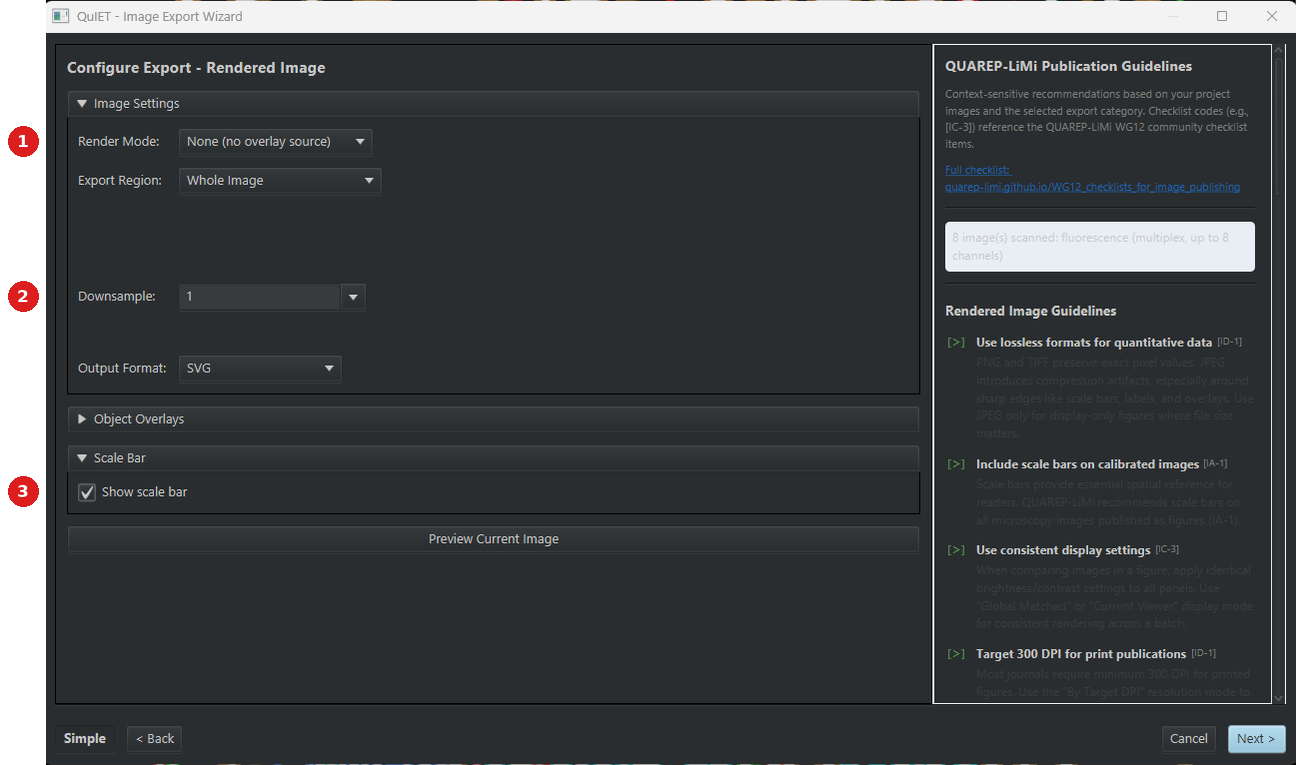
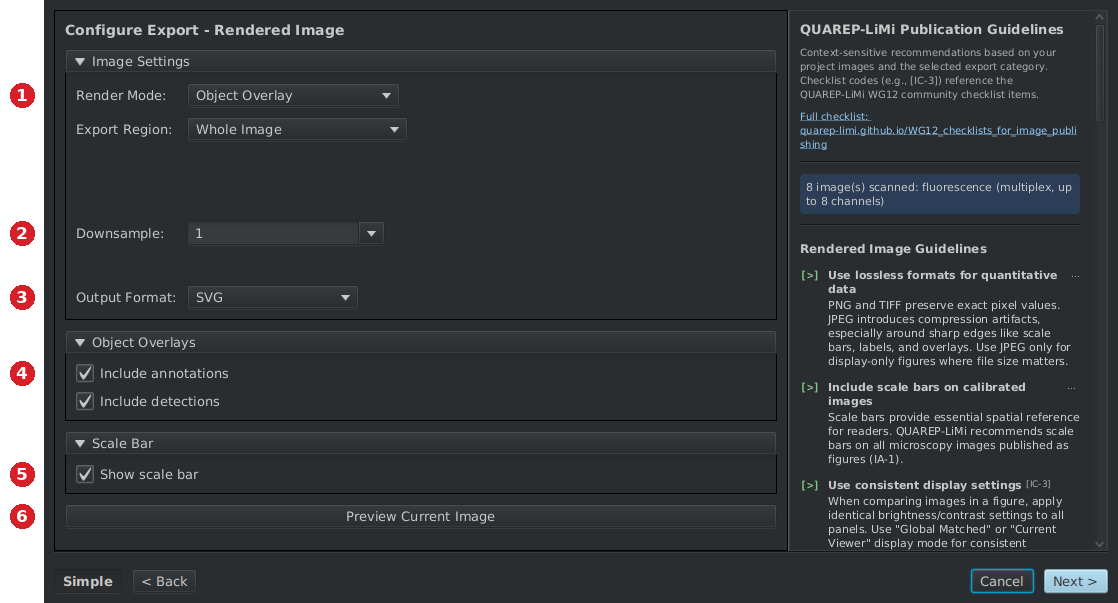
QuIET guide: exercise re-walked in QuPath, new screenshots, corrected steps
Walked the whole exercise in QuPath 0.7 with QuIET 1.2.14 through the
MCP harness and rewrote steps 3 to 5 from what the dialogs do:
- ground-truth points are annotations and Include annotations starts
  unticked; Object Overlay switches the format to SVG by itself
- Save Script is only shown in Advanced mode
- the generated script exports every project image, as PNG
- montage captions are unreadable at the default 14 px
Sub-steps 3.1 to 5.4, settings tables matching numbered screenshots,
preview, Publication Advice, script editor and montage results.
Wizard screens no longer called Step N, so step N always means the guide.

Claude-Session: https://claude.ai/code/session_01KwiACUr5MacuDvqp74c96o

diff --git a/docs/01-quiet-image-export.md b/docs/01-quiet-image-export.md
@@ -12,7 +12,7 @@ title: QuIET - QuPath Image Export Toolkit
 | | |
 |---|---|
 | **Repository** | [uw-loci/qupath-extension-image-export-toolkit](https://github.com/uw-loci/qupath-extension-image-export-toolkit) |
-| **Extension version** | 1.2.12 |
+| **Extension version** | 1.2.14 |
 | **License** | Apache-2.0 |
 | **Requires** | QuPath 0.7.0+, Java 21+ |
 | **Where to find it** | `Extensions > QuIET > Image Export...` and `Extensions > QuIET > Panel / Montage Export...` |
@@ -59,17 +59,17 @@ another program.
 
 **Every export records a Groovy script.** Whatever you clicked in the wizard is emitted as a
 self-contained script you can save, version-control, re-run next year, or send to a
-collaborator who does not have QuIET installed. Save it from **Save Script...** on Step 3, or
-find it afterwards in `Automate > Show workflow command history`.
+collaborator who does not have QuIET installed. Save it from **Save Script...** on the wizard's last screen
+(in **Advanced** mode), or find it afterwards in `Automate > Show workflow command history`.
 
 The two exceptions: exports using the **active overlay**, which cannot be reproduced from a
 script because the classifier is ephemeral, and the case where you have turned script recording
 off in Preferences.
 
 **QUAREP-LiMi guidance is in the dialog.** [QUAREP-LiMi](https://quarep.org/) is the
-community effort to define minimum reporting standards for light microscopy. Step 2 shows a
-context-sensitive guidance panel driven by your project's actual images, and Step 3 shows
-"Publication Advice" before you export. The point is to catch "what magnification was that,
+community effort to define minimum reporting standards for light microscopy. The settings screen
+shows a guidance panel driven by your project's actual images, and the last screen has
+**Publication Advice** for the images you selected, before you export. The point is to catch "what magnification was that,
 and is there a scale bar?" *before* the figure goes into a manuscript, not during review.
 
 > **Simple vs Advanced.** The navigation bar has a Simple/Advanced toggle; Simple is the
@@ -98,12 +98,12 @@ already have it, you are done here. It is a ready-made QuPath project of eight s
 8-channel multiplexed images, `tme_00.tif` … `tme_07.tif`, from the CC0
 [multiplex synthetic dataset](https://github.com/uw-loci/multiplex-synthetic-data/tree/v1.2). Cells are
 already detected on every image, and every cell carries a classified ground-truth point, so
-there are objects to draw in section 3 and a known answer to check mask and tile exports against.
+there are objects to draw in step 3 and a known answer to check mask and tile exports against.
 
 **You will also need:** QuPath **0.7.0 or later**, and this extension installed from the LOCI
 catalog (see the **Install** box above, or the [setup guide](setup.md)).
 
-> **Sections 3 and 4 need one image. Section 5 needs at least two**, because it builds a figure out
+> **Steps 3 and 4 need one image. Step 5 needs at least two**, because it builds a figure out
 > of several panels. This project gives you eight.
 
 > **Already have the 14 MB `multiplex-synthetic-data-v1.2.zip` from Track B?** Those are the
@@ -122,95 +122,210 @@ catalog (see the **Install** box above, or the [setup guide](setup.md)).
 2. **Click Search...** (bottom-right) and choose the folder you unzipped.
 3. **Click Apply changes.**
 4. **Double-click `tme_00.tif`** to open it. You should see cell outlines (the detections) and a
-   colored dot on each cell (the ground-truth points). Those are the objects section 3 draws
+   colored dot on each cell (the ground-truth points). Those are the objects step 3 draws
    onto the figure, so there is nothing to annotate by hand.
 
 ### 3. A figure you could publish
 
-1. `Extensions > QuIET > Image Export...` (see below). The second entry in that menu,
-   `Extensions > QuIET > Panel / Montage Export...`, is section 5.
+#### 3.1 Open the wizard and pick a category
+
+1. **Open `Extensions > QuIET > Image Export...`.** The second entry in the same menu,
+   `Extensions > QuIET > Panel / Montage Export...`, is used in step 5.
 
    <img src="../images/quiet/menu.png" alt="QuPath's Extensions menu open on QuIET, showing Image Export and Panel / Montage Export" width="720">
-2. **Step 1:** choose **Rendered Image** — the leftmost of the five categories (see below).
+2. **Click Rendered Image**, the leftmost of the five categories.
 
    <img src="../images/quiet/step1-categories.png" alt="The Select Export Category screen with five cards: Rendered Image, Label / Mask, Raw Image Data, Tiled Export, Object Crops" width="820">
-3. **Step 2:** set the export up like this. The numbers match the badges in the picture below.
+3. **Click Next >.**
 
-   | # | Field | Set to |
-   |---|---|---|
-   | 1 | **Render Mode** | **Object Overlay**. The dropdown starts on **None (no overlay source)**, with a blue ring around it to draw your eye; that gives a clean image with no objects, which is what the picture below happens to show |
-   | 2 | **Downsample** | **1** |
-   | 3 | **Show scale bar** | Ticked |
+#### 3.2 Configure the export
 
-   <img src="../images/quiet/step2-settings-numbered.png" alt="The Configure Export screen with red numbered badges down the left edge: 1 beside Render Mode, 2 beside Downsample, 3 beside the Show scale bar tickbox. Export Region and Output Format sit between them, and the QUAREP-LiMi guidelines panel runs down the right side" width="820">
+The numbers match the badges in the picture below the table.
 
-   **Object Overlay** draws the detected cells and their ground-truth points onto the image.
-   **Downsample** shrinks the exported image: **1** means full size, **4** means a quarter as
-   wide. You only need it when the image is far bigger than the figure you want, and these
-   images are 2048 × 2048. (On a whole-slide image tens of thousands of pixels wide you would
-   check the width in QuPath's **Image** tab — the wizard does not block the main window, so
-   you can do that with it open — and divide by roughly 2000 to get the number to enter.)
+| # | Setting | Set to |
+|---|---|---|
+| 1 | **Render Mode** | **Object Overlay**. It starts on **None (no overlay source)**, which exports a clean image with no objects drawn |
+| 2 | **Downsample** | **1** |
+| 3 | **Output Format** | Leave it. Choosing Object Overlay switches it from **PNG** to **SVG** by itself, so the outlines stay sharp at any zoom |
+| 4 | **Include annotations** | Ticked. The ground-truth points are annotations, and this box starts unticked. **Include detections**, the cell outlines, is already ticked |
+| 5 | **Show scale bar** | Ticked |
+| 6 | **Preview Current Image** | Click it to check the result before exporting |
 
-   The panel down the right is general QUAREP-LiMi guidance for the kind of export you picked,
-   plus one line saying how many of your images it scanned and what type they are. Read it
-   now; the advice specific to *your* images comes at Step 3.
+<img src="../images/quiet/step2-settings-numbered.png" alt="The Configure Export screen with red numbered badges down the left edge: 1 Render Mode set to Object Overlay, 2 Downsample set to 1, 3 Output Format showing SVG, 4 Include annotations ticked with Include detections ticked below it, 5 Show scale bar ticked, 6 the Preview Current Image button. The QUAREP-LiMi Publication Guidelines panel runs down the right side" width="820">
 
-4. **Step 3:** **every image in the project starts ticked.** Click **Deselect All** and tick
-   exactly one — section 4 needs a second image that has *not* been exported yet. Choose an
-   output folder.
+The **Object Overlays** and **Scale Bar** sections may be collapsed when you arrive.
+**Click a section's title** to open it.
 
-   Now click **Publication Advice**. *This* is the part that looks at the images you actually
-   selected and tells you what is missing — for example "No scale bar on calibrated images".
-   Items are colored by how much they matter. Read it, then export.
-5. **Open the result.** Check that the scale bar is legible at the size you would print it.
+**Click Preview Current Image.** A window opens with the image as it will be exported: cell
+outlines, a colored dot on each cell, and a `200 um` scale bar in the lower right.
 
-   Your output folder should hold **one** image plus `export_info`, a small text file
-   recording the settings used.
+<img src="../images/quiet/export-preview.jpg" alt="The Export Preview window: the synthetic tissue image tme_00 with every cell outlined and a colored ground-truth dot on each cell, and a white 200 um scale bar in the lower-right corner" width="560">
 
-   The folder below shows what happens when you *don't* do that — eight exports, because every
-   image was still ticked at Step 3. If yours looks like this, delete the folder and redo
-   Step 3 with **Deselect All**, because section 4 needs an image that has not been exported yet.
+**Close the preview window**, then **click Next >**.
 
-   (The names look odd because that run had **Drop source file extension** unticked on Step 3,
-   so each file kept its original `.tif` name and gained `.svg` on the end. With the tickbox
-   left at its default you get `tme_00.svg`.)
+<details markdown="1">
+<summary>What Downsample and the guidelines panel are for</summary>
 
-   <img src="../images/quiet/output-folder.png" alt="A file listing showing export_info and eight exported files" width="620">
+**Downsample** shrinks the exported image: **1** means full size, **4** means a quarter as
+wide. These images are 2048 × 2048 pixels, so full size is fine. On a whole-slide image tens
+of thousands of pixels wide, check the width in QuPath's **Image** tab (the wizard does not
+block the main window, so you can do it with the wizard open) and divide by roughly 2000 to
+get the number to enter.
+
+The panel down the right is general QUAREP-LiMi guidance for the kind of export you picked,
+plus one line saying how many of your images it scanned and what type they are. Advice about
+the images you select comes at the next screen, under **Publication Advice**.
+
+SVG keeps outlines and the scale bar as vector shapes, but only up to 1000 objects. These
+images have about 1500 cells each, so QuIET draws the cells into the picture itself and keeps
+the scale bar as a vector.
+
+</details>
+
+#### 3.3 Choose one image and read the advice
+
+The wizard opens in **Simple** mode. **Save Script...**, which step 4 needs, only shows in
+**Advanced** mode.
+
+| # | Control | Do this |
+|---|---|---|
+| 1 | **Simple** / **Advanced** toggle | Click it so it reads **Advanced** |
+| 2 | **Deselect All** | Click it. Every image in the project starts ticked |
+| 3 | `tme_00.tif` | Tick it, and only it. The count beside **Deselect All** reads `1 images selected` |
+| 4 | **Copy Script** / **Save Script...** | Leave for step 4 |
+| 5 | **Publication Advice [i]** | Click it |
+| 6 | **Export** | Click it when you have read the advice |
+
+<img src="../images/quiet/step3-select-numbered.png" alt="The Select Images and Run screen in Advanced mode with red numbered badges: 1 the Advanced toggle at the bottom left, 2 the Deselect All button, 3 tme_00.tif ticked as the only image, 4 the Copy Script and Save Script buttons, 5 the Publication Advice button, 6 the Export button at the bottom right. The output directory reads exports/rendered inside the project folder" width="820">
+
+**Output Directory** is already filled in: an `exports/rendered` folder inside the project
+folder. Leave it.
+
+**Click Publication Advice [i].** A window lists what QuIET found in the images you
+selected, each item tagged with its QUAREP-LiMi checklist code. With the settings above you
+get two suggestions and no warnings. Remove the scale bar and an item about the missing scale
+bar appears.
+
+<img src="../images/quiet/publication-advice.png" alt="The Publication Advice window: 0 issues, 0 warnings, 2 suggestions. The first, IC-3, is about per-image display settings and suggests Global Matched. The second, IC-5, is about a multi-channel image exported without split channels and suggests enabling Split channels" width="450">
+
+**Close the advice window**, then **click Export.** In a few seconds the bottom of the wizard
+reads `Exported 1 images.`, and **Open Result Folder** and **Close** appear beside **Export**.
+Leave the wizard open for step 4.
+
+#### 3.4 Check the result
+
+**Click Open Result Folder.** It holds two files:
+
+```
+export_info.txt
+tme_00.svg
+```
+
+**Open `tme_00.svg`** in a web browser. It matches the preview. Check that the scale bar is
+legible at the size you would print it.
+
+`export_info.txt` records the settings: category, downsample, pixel size (0.5 µm per pixel)
+and every channel's name and display color, ready for a figure legend.
 
 ### 4. The reproducibility half
 
-*Section 3 had you export only one image so that an unexported image is left for this section.*
+#### 4.1 Copy the script
 
-1. Get the **Groovy script** for that export. QuIET does not write one into the output
-   folder — on Step 3, click **Save Script...** and save it somewhere you can find. (It is also
-   recorded in `Automate > Show workflow command history` on the exported image.)
-2. Open QuPath's script editor, `Automate > Script editor` (see below), paste it in, and run
-   it against a *different* image in the project.
+**Click Copy Script** (badge 4 in the step 3.3 picture). The Groovy script for the export you just ran is now on
+the clipboard. **Save Script...** writes the same script to a file instead.
 
-   <img src="../images/quiet/script-editor.png" alt="QuPath's Automate menu open, with Script editor highlighted" width="580">
-3. Confirm you get the same treatment applied to new data with zero clicks.
+**Click Close** to close the wizard.
+
+#### 4.2 Run it from the script editor
+
+1. **Open `Automate > Script editor`.**
+2. **Paste the script with Ctrl+V** (Cmd+V on a Mac).
+3. **Click Run** (badge 1, bottom right).
+
+<img src="../images/quiet/script-editor-run-numbered.png" alt="QuPath's Script Editor holding the QuIET script. The header comment reads Object Overlay Export Script, exports all project images with object overlays. The configuration block below sets downsample 1.0 and outputFormat png, with a note that SVG export requires the QuIET extension. The output pane at the bottom reads Export complete: 8 succeeded, 0 failed. A red badge 1 sits beside the Run button" width="820">
+
+The output pane at the bottom lists each image as it goes, then
+`Export complete: 8 succeeded, 0 failed`.
+
+#### 4.3 Compare
+
+**Open the `exports/rendered` folder again.** Beside `tme_00.svg` there are now eight PNGs,
+`tme_00.png` to `tme_07.png`, all rendered with the settings you chose in step 3.
+
+The script differs from the wizard in two ways, both written at the top of the script:
+
+- **It runs on every image in the project**, not only the ones you ticked.
+- **It writes PNG, not SVG.** SVG export needs QuIET installed; the script runs on any
+  QuPath 0.7 without it, so you can send it to a collaborator.
+
+The **CONFIGURATION** block at the top holds every setting as a line you can edit, for
+example `def downsample = 1.0`, before running it again.
 
 ### 5. A multi-panel figure
 
-1. `Extensions > QuIET > Panel / Montage Export...`
-2. Select the images you want as panels and apply one **recipe** — one set of rendering
-    settings — to all of them, so every panel is treated identically. The project has eight
-    images; pick four and lay them out 2×2. `tme_06` (immune-rich) and `tme_07` (immune-poor)
-    are the two most different, so include those. Add captions — the caption is the full
-    image name, `tme_06.tif`, extension included, so you can tell versions of an image apart.
-3. **Export and open the montage.** The one below was made from four of these images, so yours
-    should look similar, with as many panels as you selected. What matters is that every panel
-    got the same recipe and its own scale bar.
+#### 5.1 Pick the images
 
-    <img src="../images/quiet/panel-figure.jpg" alt="A 2x2 montage of four synthetic multiplex images, each rendered identically and carrying a 200 micrometre scale bar" width="640">
+1. **Open `Extensions > QuIET > Panel / Montage Export...`.** A message titled **Build one
+   figure from many images** explains recipes.
+2. **Click OK.**
+
+| # | Control | Do this |
+|---|---|---|
+| 1 | **Use Project Default** | Click it. **Output Directory** starts empty |
+| 2 | **Deselect All** | Click it |
+| 3 | Image list | Tick `tme_00.tif`, `tme_01.tif`, `tme_06.tif` and `tme_07.tif`. `tme_06` is immune-rich and `tme_07` immune-poor, the two most different images in the set |
+| 4 | **Next >** | Click it |
+
+<img src="../images/quiet/panel-select-numbered.png" alt="Step 1 of 3 of the Panel / Montage wizard, Select images for the panel, with red numbered badges: 1 the Output Directory row with Use Project Default at its right, 2 the Deselect All button, 3 the image list with tme_00, tme_01, tme_06 and tme_07 ticked, 4 the Next button. The line under the list says panels are filled row-major in list order" width="820">
+
+Panels are filled in list order, left to right and then top to bottom, so this order gives
+`tme_00` and `tme_01` on the top row.
+
+#### 5.2 Accept the recipe
+
+The **recipe** is the set of settings applied to every panel. It starts from your most recent
+Image Export, so it already has **Object Overlay**, **Downsample** 1 and the scale bar from
+step 3.
+
+**Click Next >.**
+
+#### 5.3 Layout, captions and panel letters
+
+| # | Setting | Set to |
+|---|---|---|
+| 1 | **Rows** / **Columns** | Leave at **2** and **2**. The line beside them reads `4 images -> 2 x 2 = 4` |
+| 2 | **Show filename caption** (under **Captions**) | Ticked |
+| 3 | **Caption font size** | **64**. At the default 14 the captions are too small to read on a figure 4126 pixels wide |
+| 4 | **Style** (under **Panel labels (A, B, C...)**) | **A, B, C** |
+| 5 | **Export** | Click it |
+
+<img src="../images/quiet/panel-layout-numbered.png" alt="Step 3 of 3 of the Panel / Montage wizard, Layout, captions and output, shown full height with red numbered badges: 1 Rows 2 and Columns 2, 2 Show filename caption ticked under Captions, 3 Caption font size set to 64, 4 panel label Style set to A, B, C, 5 the Export button. The Output section near the bottom shows Format PNG, an exports/panels output folder and the filename panel_figure" width="820">
+
+**Captions** and **Panel labels (A, B, C...)** are collapsed sections further down the
+screen. **Scroll down and click each title** to open it.
+
+**Open layout preview...** shows the grid as thumbnails in a separate window, where you can
+drag one panel onto another to swap them.
+
+#### 5.4 Open the figure
+
+**Click Open Result Folder.** `exports/panels` holds `panel_figure.png` and
+`panel_figure_info.txt`, which lists the layout, the recipe and the four source images in
+order.
+
+**Open `panel_figure.png`.** It looks like this: four panels drawn with the same recipe,
+lettered A to D, each with its own scale bar and its filename underneath.
+
+<img src="../images/quiet/panel-figure.jpg" alt="A 2 by 2 montage of four synthetic multiplex images with cell outlines and ground-truth dots, lettered A to D in white in the upper-left corners, each with a white 200 um scale bar at the lower right and its filename, tme_00.tif, tme_01.tif, tme_06.tif and tme_07.tif, in black underneath" width="640">
 
 ### What to notice
 
-- The recipe concept is what makes panels *comparable*: every panel got the same rendering,
-  downsample, and overlay treatment, which is exactly the claim a figure implicitly makes.
-- The QUAREP panel is advisory, not blocking. It is telling you what a reviewer may ask.
-- Exporting masks (Step 1 → **Label / Mask**) from the same annotations gives you ML training
-  targets with no extra annotation work. Try it if you have time.
+- Every panel in the montage got the same rendering, downsample and overlays, so differences
+  between panels come from the images and not from how each one was exported.
+- Publication Advice never blocks an export. It lists what a reviewer may ask about.
+- **Label / Mask** (the second category on the wizard's first screen) exports masks from the
+  same annotations, for training a model, with no extra annotation work. Try it if you have
+  time.
 
 ---
 
